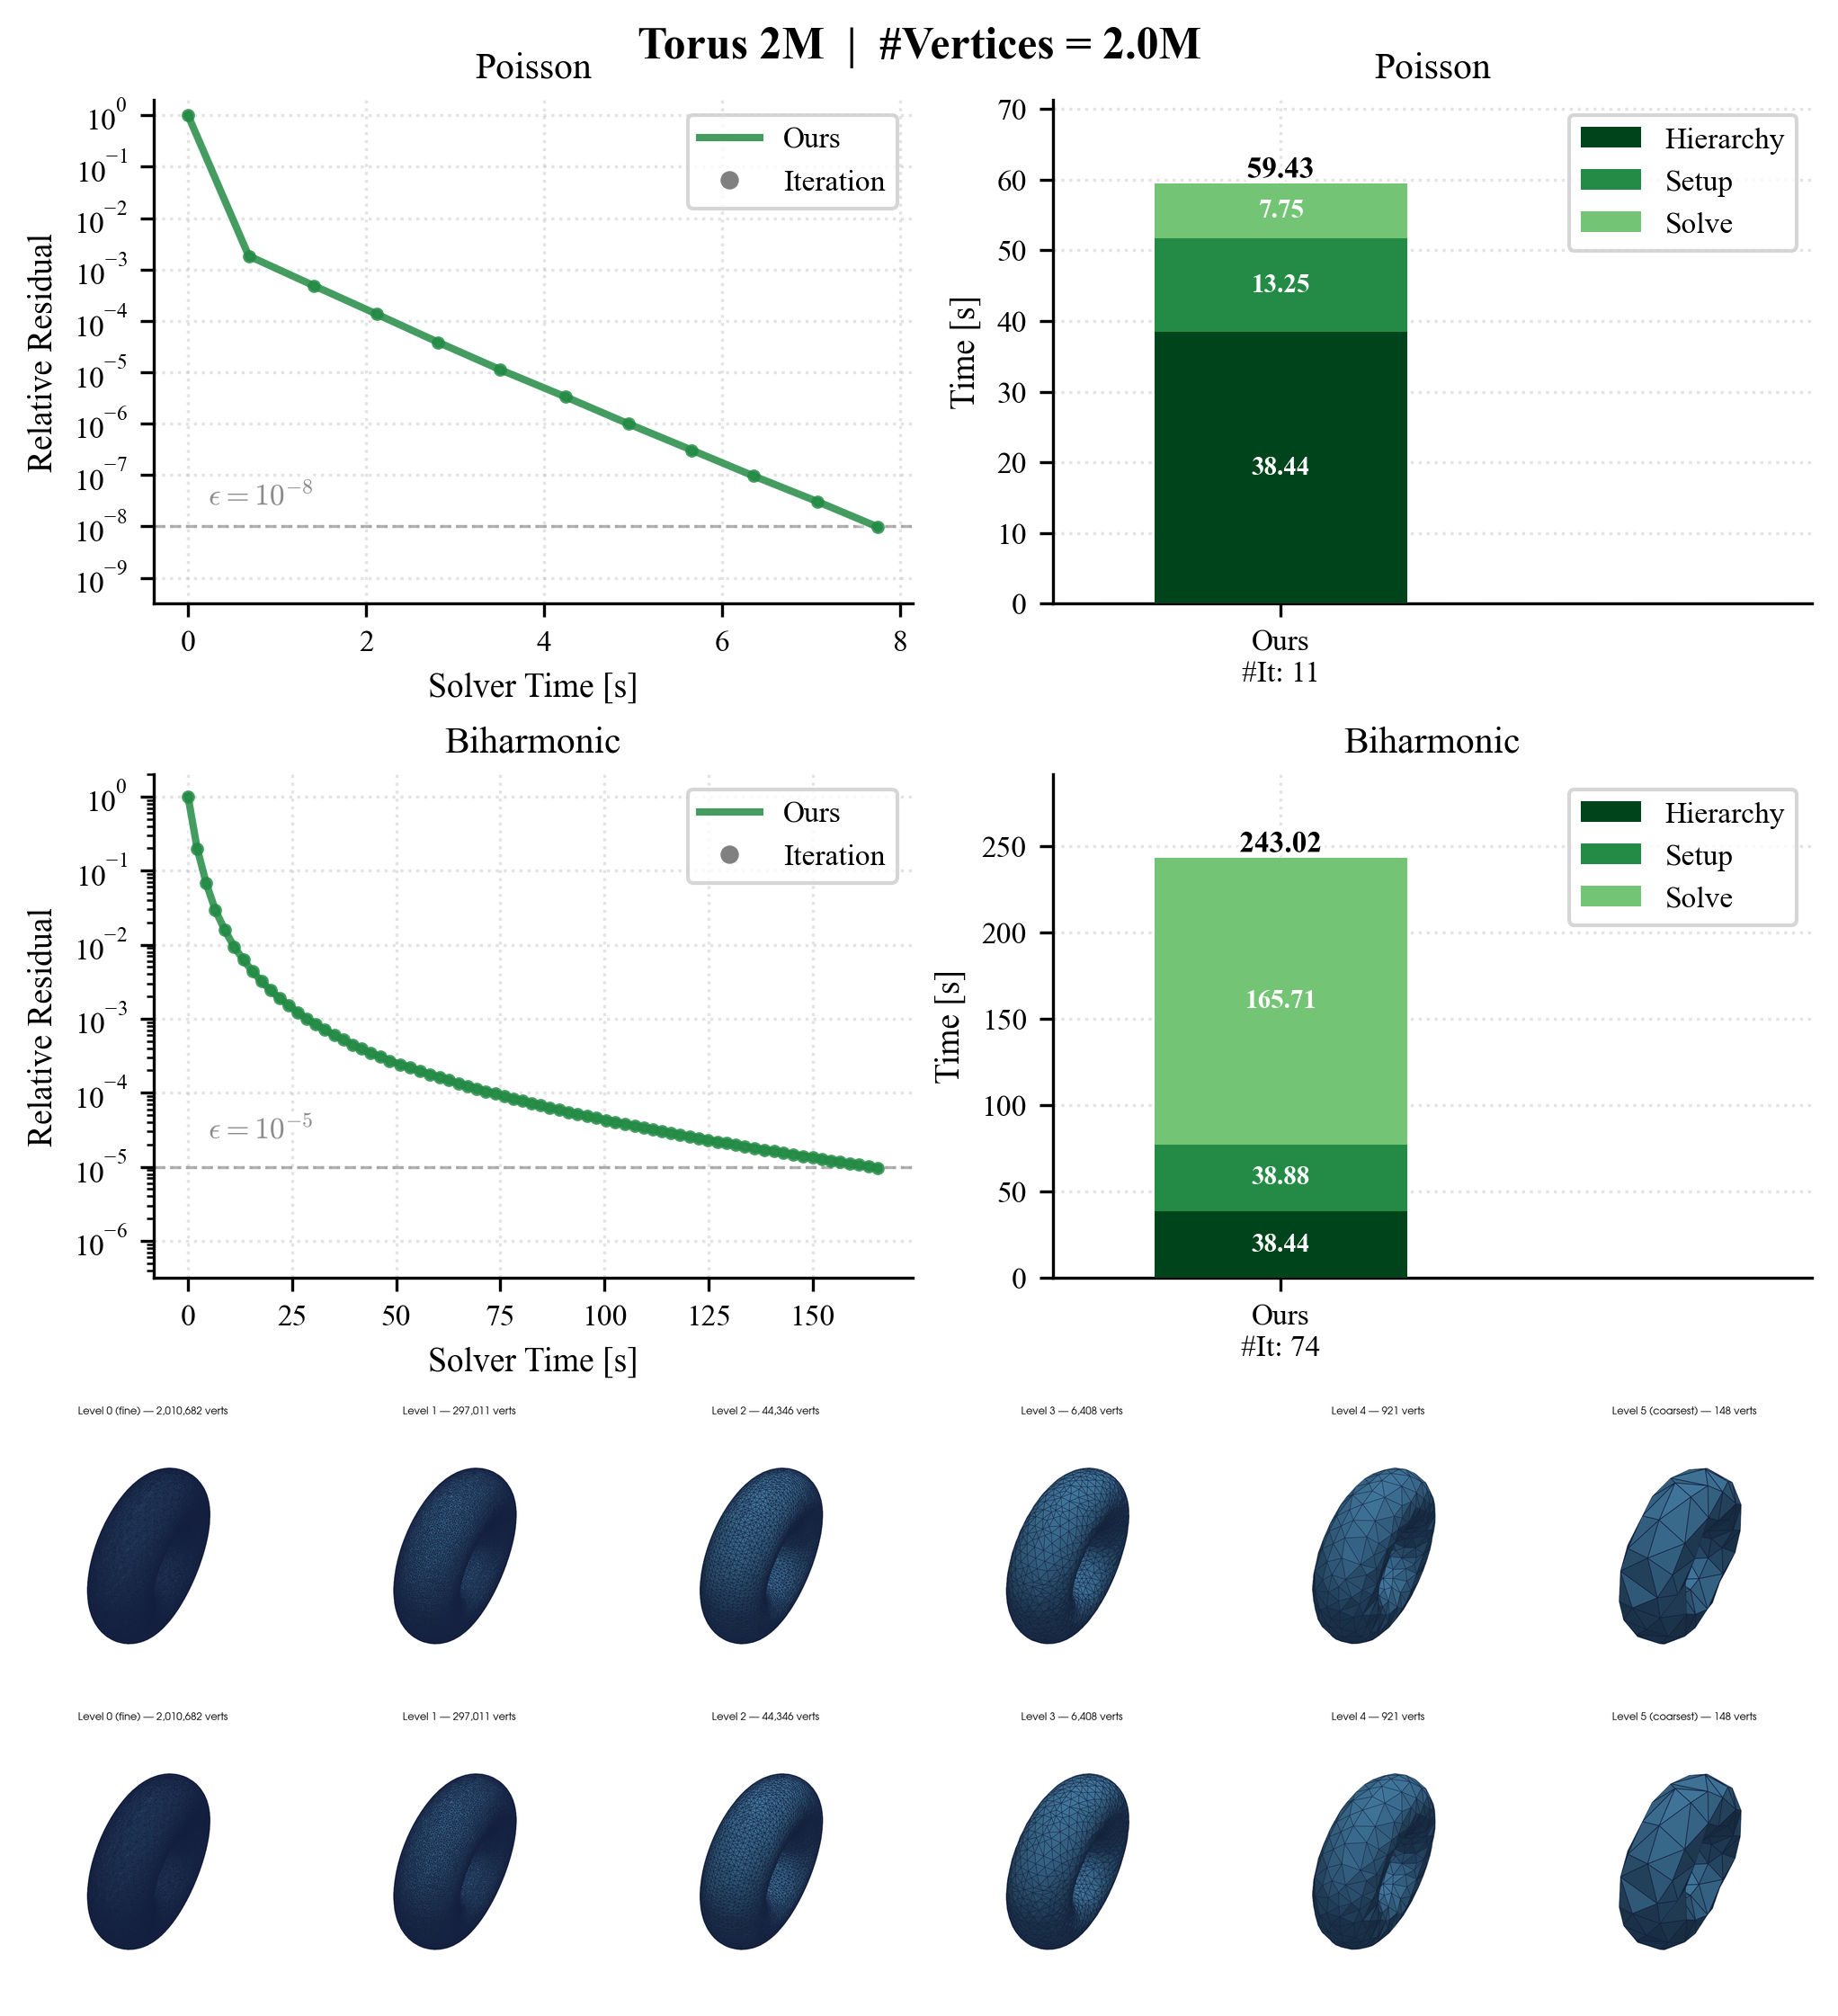
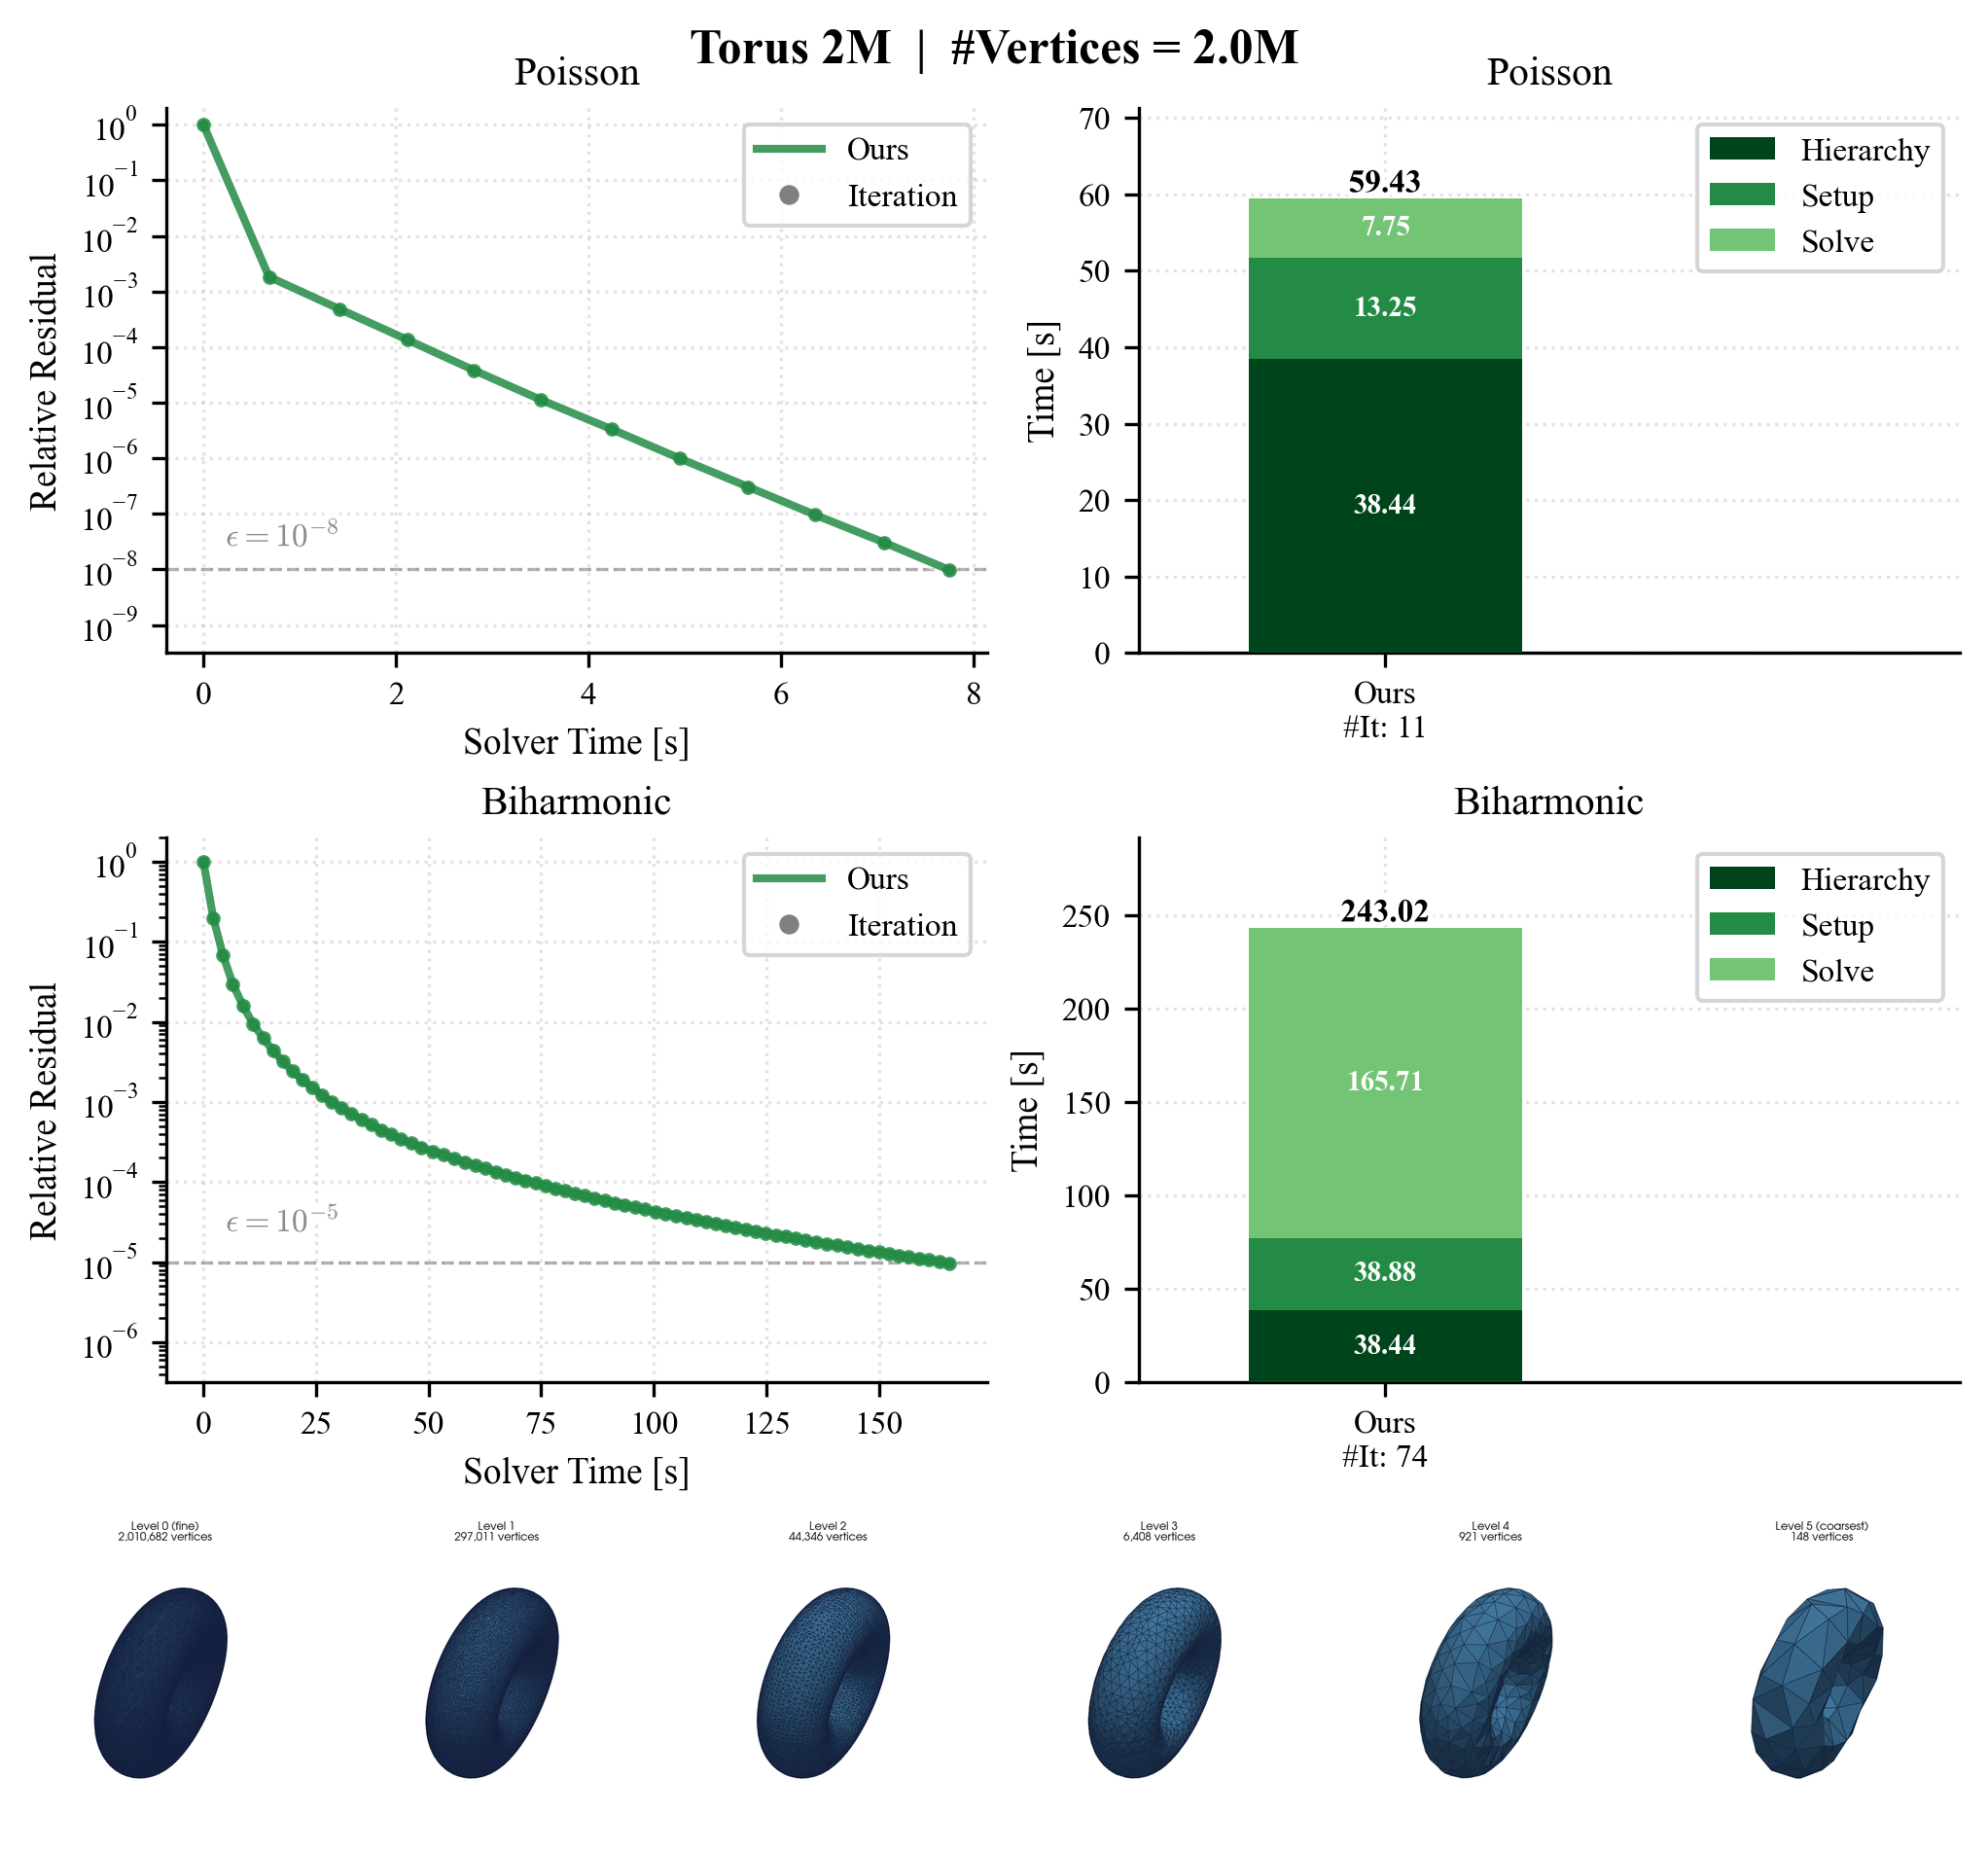
Fix duplicate hierarchy strip in torus output; restore abstract in README

diff --git a/scripts/repair_torus_output.py b/scripts/repair_torus_output.py
@@ -1,0 +1,96 @@
+"""Repair output/torus_2M/output.png without re-running the full demo.
+
+Uses existing files:
+  - output/torus_2M/data.json          (convergence / timing data)
+  - output/torus_2M/meshes/level_*.png (already-rendered hierarchy levels)
+
+Regenerates a correct output.png: plots on top, single hierarchy strip below.
+The previous file had the strip duplicated due to an older version of the code.
+"""
+from __future__ import annotations
+
+import json
+import sys
+from pathlib import Path
+
+REPO = Path(__file__).resolve().parents[1]
+sys.path.insert(0, str(REPO / "code" / "python"))
+
+from gravotet_demo.plotting import save_combined_figure  # noqa: E402
+from PIL import Image  # noqa: E402
+
+OUTPUT_DIR = REPO / "output" / "torus_2M"
+
+
+def main() -> int:
+    summary_path = OUTPUT_DIR / "data.json"
+    if not summary_path.exists():
+        print(f"ERROR: {summary_path} not found")
+        return 1
+
+    with open(summary_path) as f:
+        summary = json.load(f)
+
+    # 1. Regenerate residual / timing plots
+    print("Generating combined.png ...")
+    combined_path = save_combined_figure(summary, OUTPUT_DIR)
+    print(f"  -> {combined_path}")
+
+    # 2. Build hierarchy strip from the pre-existing per-level renders
+    meshes_dir = OUTPUT_DIR / "meshes"
+    level_pngs = sorted(
+        meshes_dir.glob("level_*.png"),
+        key=lambda p: int(p.stem.split("_")[1]),
+    )
+    if not level_pngs:
+        print(f"ERROR: no level PNGs in {meshes_dir}")
+        return 1
+
+    print(f"Compositing {len(level_pngs)} level renders into hierarchy_strip.png ...")
+    images = [Image.open(str(p)) for p in level_pngs]
+    total_w = sum(img.width for img in images)
+    max_h = max(img.height for img in images)
+
+    strip = Image.new("RGB", (total_w, max_h), (255, 255, 255))
+    x = 0
+    for img in images:
+        strip.paste(img, (x, (max_h - img.height) // 2))
+        x += img.width
+    for img in images:
+        img.close()
+
+    strip_path = OUTPUT_DIR / "hierarchy_strip.png"
+    strip.save(str(strip_path), "PNG")
+    strip.close()
+    print(f"  -> {strip_path}")
+
+    # 3. Concatenate: combined on top, hierarchy strip below (exactly once)
+    print("Merging into output.png ...")
+    combined = Image.open(str(combined_path))
+    strip_img = Image.open(str(strip_path))
+
+    target_w = combined.width
+    new_h = int(strip_img.height * target_w / strip_img.width)
+    strip_resized = strip_img.resize((target_w, new_h), Image.LANCZOS)
+
+    result = Image.new("RGB", (target_w, combined.height + new_h), (255, 255, 255))
+    result.paste(combined, (0, 0))
+    result.paste(strip_resized, (0, combined.height))
+
+    combined.close()
+    strip_img.close()
+
+    output_path = OUTPUT_DIR / "output.png"
+    result.save(str(output_path), "PNG")
+
+    # Remove intermediates
+    combined_path.unlink(missing_ok=True)
+    strip_path.unlink(missing_ok=True)
+
+    print(f"  -> {output_path}")
+    print("Done.")
+    return 0
+
+
+if __name__ == "__main__":
+    sys.exit(main())

diff --git a/README.md b/README.md
@@ -1,4 +1,4 @@
-# GravoTet — Supplementary Code
+# GravoTet - Supplementary Code
 
 Reference implementation for **GravoTet: A Fast Multigrid Hierarchy
 Construction for Tetrahedral Meshes**, presented at Shape Modeling
@@ -9,11 +9,25 @@ Marcel Padilla<sup>1</sup>, Ruben Wiersma<sup>1</sup>, Tim Huisman<sup>2</sup>, 
 
 <sub><sup>1</sup> ETH Zürich &nbsp;&middot;&nbsp; <sup>2</sup> Delft University of Technology &nbsp;&middot;&nbsp; correspondence: [email redacted]</sub>
 
-GravoTet constructs a multigrid hierarchy on a tetrahedral mesh by coarsening
-the vertex set and forming graph-Voronoi cells whose duals define coarse
-tetrahedra, prioritizing boundary elements to preserve fidelity. Each demo
-builds the hierarchy, solves a Poisson and a biharmonic problem with a V-cycle,
-and writes a figure of the residual curves, timing bars, and hierarchy levels.
+## Abstract
+
+> Geometric multigrid (GMG) methods are a fundamental tool for efficiently
+> solving large sparse linear systems. A requirement for GMG is a hierarchy
+> of grids; however, many practical volumetric domains are available only as
+> single, irregular tetrahedral meshes, making the construction of a multigrid
+> hierarchy necessary. Existing approaches often trade off speed against
+> hierarchy quality: remeshing- or coarsening-based methods can be expensive
+> to construct, whereas graph-based techniques are fast but often yield weaker
+> multigrid performance. We introduce **GravoTet**, which bridges this gap by
+> combining geometric structure with graph-based efficiency to construct fast
+> and effective multigrid hierarchies. GravoTet builds a vertex hierarchy and
+> then generates graph-Voronoi diagrams whose dual cells define coarse
+> tetrahedra, enabling rapid construction of multigrid levels. Boundary
+> elements are explicitly prioritized during both sampling and tet generation
+> to preserve boundary. In our evaluation, we solve Poisson and biharmonic
+> problems on irregular tetrahedral meshes and compare GravoTet against
+> state-of-the-art geometric multigrid, algebraic multigrid and direct
+> solvers, demonstrating superior performance, particularly on large meshes.
 
 ## Clone and run
 
@@ -30,16 +44,16 @@ also accepts `--problems`, `--max-cycles`, and `--verbose`.
 
 ## Results
 
-**Cube — 205k vertices**
+**Cube — 205k vertices** _(seconds)_
 ![Cube 200k](output/cube_200k/output.png)
 
-**Spot — 709k vertices**
+**Spot — 709k vertices** _(~2 min)_
 ![Spot 700k](output/spot_700k/output.png)
 
-**Sphere — 1.45M vertices**
+**Sphere — 1.45M vertices** _(~5 min)_
 ![Sphere 1.5M](output/sphere_1.5M/output.png)
 
-**Torus — 2.01M vertices**
+**Torus — 2.01M vertices** _(~10 min)_
 ![Torus 2M](output/torus_2M/output.png)
 
 Each run also writes per-level meshes and renders, the prolongation matrices,
@@ -58,22 +72,6 @@ On the first run the driver installs any missing Python packages (`numpy`,
 `scipy`, `matplotlib`, `pybind11`, `pyvista`, `pillow`) and builds the local
 C++ extension via `pybind11`. No conda and no SuiteSparse/CHOLMOD are required:
 the V-cycle uses an Eigen `SimplicialLDLT` as its coarse-grid direct solver.
-
-## Where the paper's pieces live
-
-| Paper concept | Source |
-|---|---|
-| Hierarchy construction (sampling, exterior-first clustering, simplicial complex) | `code/cpp/multigrid_solver.cpp` |
-| V-cycle with Chebyshev-accelerated Jacobi smoothing | `code/cpp/multigrid_solver_vcycle.cpp` |
-| Stiffness, lumped mass, and biharmonic assembly | `code/python/gravotet_demo/pde.py` |
-
-## Maintenance
-
-```bash
-python scripts/fetch_data.py    # pre-assemble the large meshes into data/
-python scripts/reset.py         # wipe output/ and build artifacts
-cd code/python && python -m gravotet_demo.test_cube_problems --resolution 10
-```
 
 ## Third-party code and acknowledgments
 